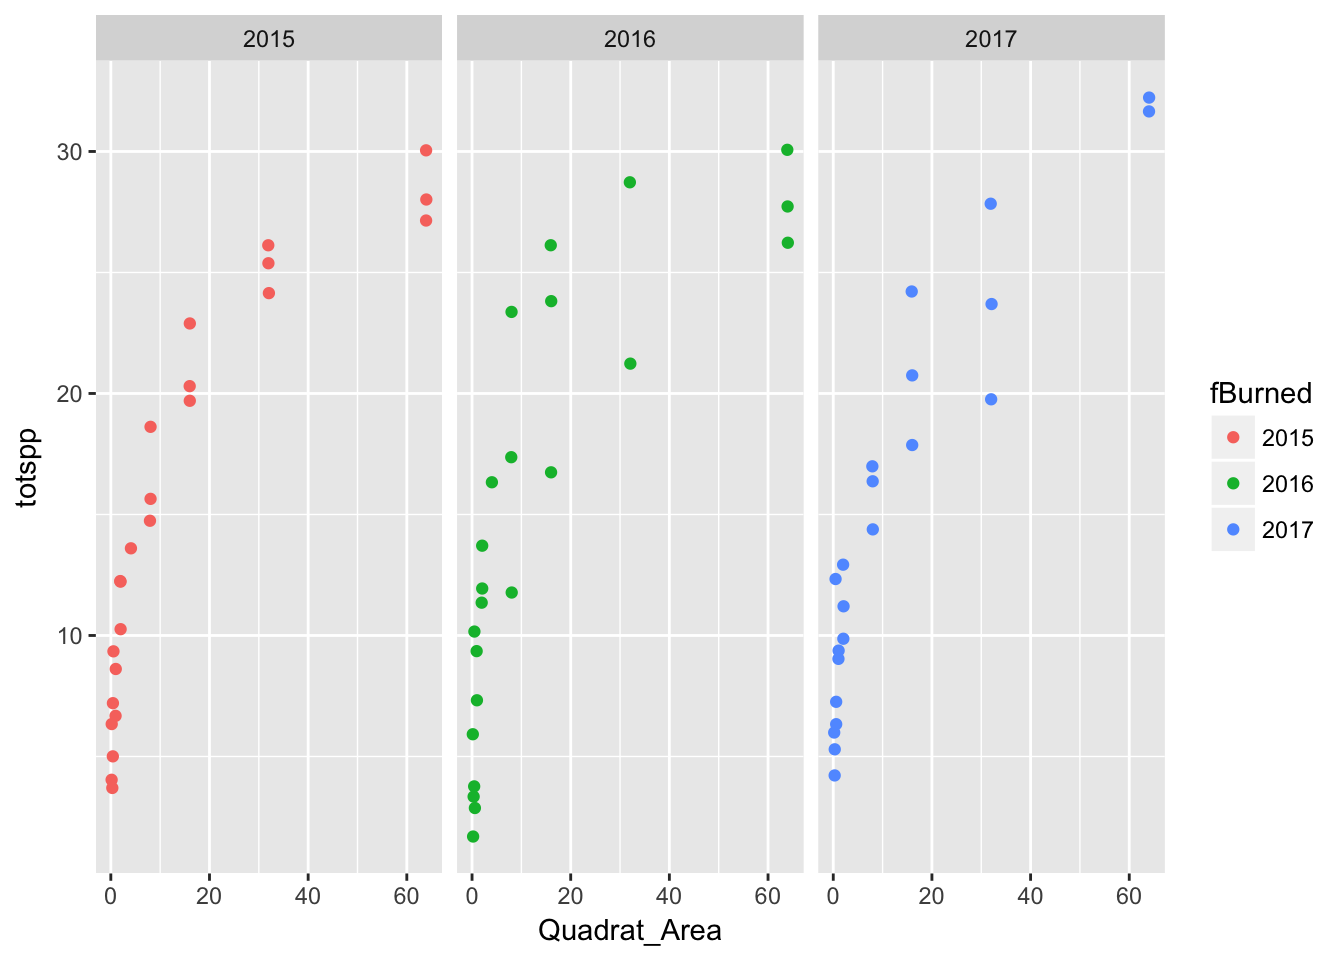
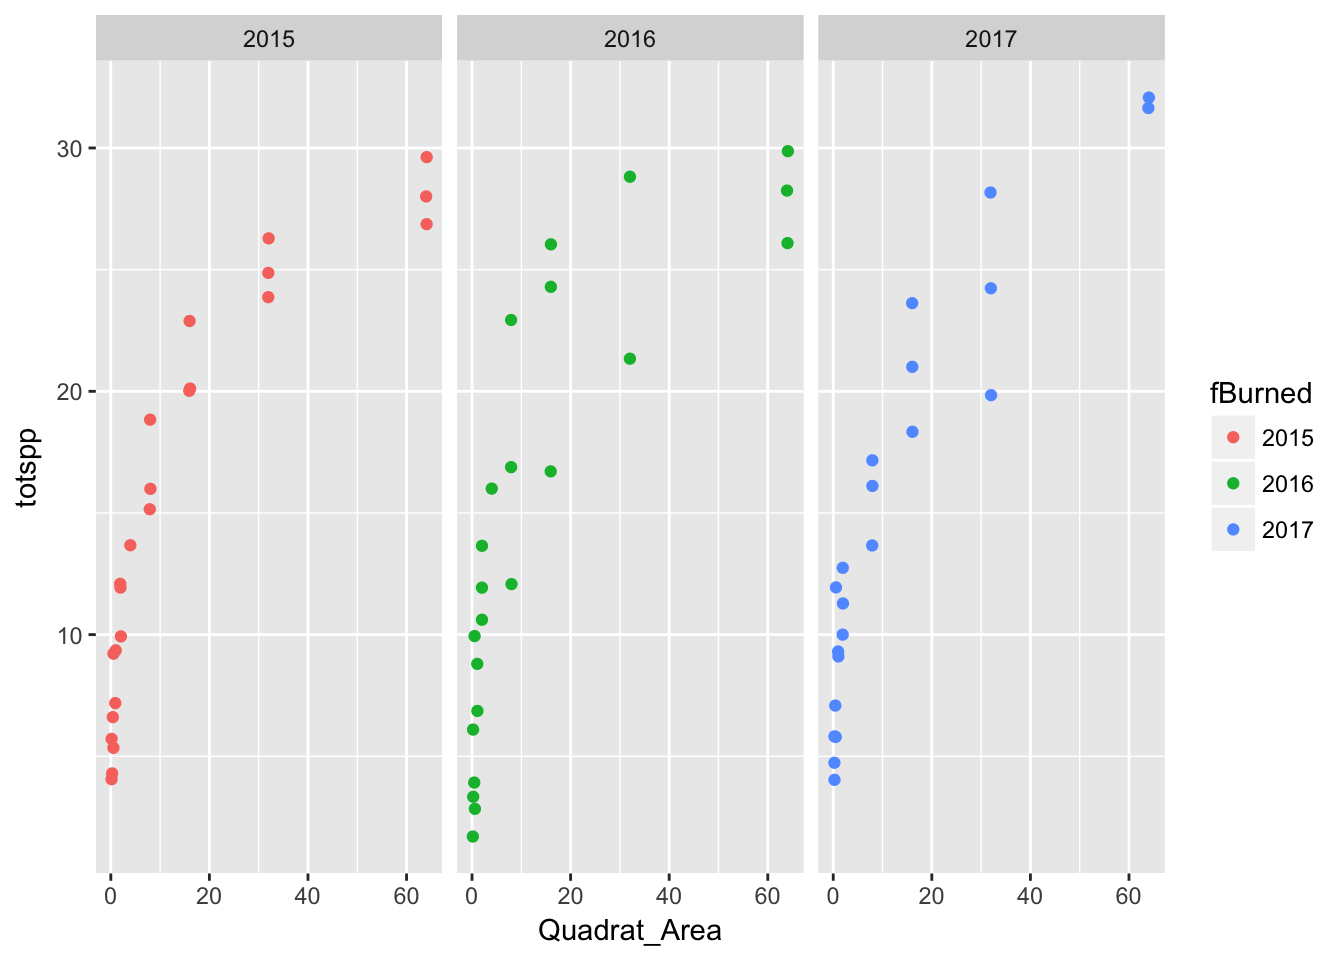
Final version of handout

diff --git a/content/classes/NRES222/nine_mile_ws.html b/content/classes/NRES222/nine_mile_ws.html
@@ -54,14 +54,12 @@ ggplot(data = spparea3,
        mapping = aes(x=Quadrat_Area, y=totspp)) + 
   geom_point(mapping=aes(color=fBurned),
              position = &quot;jitter&quot;)</code></pre>
-<p><img src="/classes/NRES222/nine_mile_ws_files/figure-html/unnamed-chunk-1-1.png" width="672" /></p>
 <p>Adding the argument <code>position = &quot;jitter&quot;</code> to <code>geom_point()</code> just adds a small random number to each data point to avoid points plotting on top of each other. Another way to separate the sections that might be easier to answer Q1 is to make a separate subplot for each unit burned.</p>
 <pre class="r"><code>ggplot(data = spparea3,
        mapping = aes(x=Quadrat_Area, y=totspp)) + 
   geom_point(mapping=aes(color=fBurned),
              position = &quot;jitter&quot;) +
   facet_wrap(~fBurned)</code></pre>
-<p><img src="/classes/NRES222/nine_mile_ws_files/figure-html/unnamed-chunk-2-1.png" width="672" /></p>
 <ol style="list-style-type: decimal">
 <li>Using the graphs with the raw data, rank the 3 fields (burned in 2015, 2016, or 2017) from most homogeneous (all student data sets similar) to most heterogeneous. You are looking at the spread vertically within a single size of quadrat. Why are some fields more variable (speculate)?</li>
 </ol>
@@ -82,8 +80,6 @@ spparea4 &lt;- summarize(spparea4,
        y = &quot;Cumulative species richness (95% CI)&quot;,
        caption = &quot;Figure 1: Cumulative species richness as a function of total quadrat area searched in three fields at 9 Mile Prairie, Nebraska.&quot;) + 
   theme(plot.caption = element_text(hjust=0))</code></pre>
-<pre><code>## Warning: Removed 2 rows containing missing values (geom_errorbar).</code></pre>
-<p><img src="/classes/NRES222/nine_mile_ws_files/figure-html/unnamed-chunk-4-1.png" width="672" /></p>
 <ol start="2" style="list-style-type: decimal">
 <li><p>Compare the average curves for the 3 fields. Does the species area curve appear to follow a smooth relationship? Is the shape of the curve the same for all four fields?</p></li>
 <li><p>Which of the 3 fields had the highest plant diversity?</p></li>
@@ -109,31 +105,34 @@ Log(S) = log c + z log(A)
   theme(plot.caption = element_text(hjust=0)) + 
     scale_x_log10() + scale_y_log10() + # here is the new bit
       geom_smooth(method=&quot;lm&quot;)</code></pre>
-<pre><code>## Warning in self$trans$transform(x): NaNs produced</code></pre>
-<pre><code>## Warning: Transformation introduced infinite values in continuous y-axis</code></pre>
-<pre><code>## Warning: Removed 4 rows containing missing values (geom_errorbar).</code></pre>
-<p><img src="/classes/NRES222/nine_mile_ws_files/figure-html/unnamed-chunk-5-1.png" width="672" /></p>
 <ol start="7" style="list-style-type: decimal">
-<li>Do the log10 – transformed data appear to follow a linear relationship? Is the slope of the line similar for all 3 areas?</li>
+<li><p>Do the log10 – transformed data appear to follow a linear relationship? Is the slope of the line similar for all 3 areas?</p></li>
+<li><p>Which of the 3 areas had the highest plant diversity? Do the differences among the grassland types change between small and large plots? (hint: might be easier if you remove <code>facet_wrap()</code> and get all three lines on same graph.)</p></li>
+<li><p>Pick the grassland type with the highest diversity. Visually estimate (extrapolate) how many species you would expect to find in a 100m2 quadrat using the log10 – transformed data.</p></li>
 </ol>
-<p>Those lines look fine, but what if we want to know what the values of <span class="math inline">\(c\)</span> and <span class="math inline">\(z\)</span> actually are for each field? To do that we need the summary of the linear regressions shown in the graphs.</p>
-<ol start="8" style="list-style-type: decimal">
-<li><p>Which of the 3 areas had the highest plant diversity? Do the differences among the grassland types change between small and large plots?</p></li>
-<li><p>Pick the grassland type with the highest diversity. Visually estimate (extrapolate) how many species you would expect to find in a 100m2 plot log10 – transformed data.</p></li>
-<li><p>What are the equations of your log-transformed relationships for the 3 areas (they can be on the graph) ?</p></li>
-<li><p>Do you think these relationships (the straight lines on the logS vs logA graph) would increase smoothly indefinitely? What would happen if the study area crossed into a different ecosystem type (for example a stand of trees or a corn field)?</p></li>
-<li><p>Use the equations to predict how many species each habitat would have at a scale of 1 m2? (Remember that the log of 1 =0, so your answer is the value of the intercept. BUT, you have to transform it from a log scale back to linear, so take 10 raised to the value of the intercept to give the average number of species in a 1m2 plot).</p></li>
+<hr />
+<p>Those lines look fine, but what if we want to know the values of <span class="math inline">\(c\)</span> and <span class="math inline">\(z\)</span> actually are for each field? To do that we need the summary of the linear regressions shown in the graphs.</p>
+<pre class="r"><code>burned2015 &lt;- filter(spparea3, fBurned == &quot;2015&quot;)
+b2015_lm &lt;- lm(log(totspp) ~ log(Quadrat_Area), data= burned2015)
+summary(b2015_lm)</code></pre>
+<p>The estimate labeled <code>(intercept)</code> is <span class="math inline">\(log(c)\)</span>, and the estimate labeled <code>log(Quadrat_Area)</code> is <span class="math inline">\(z\)</span>. Repeat for the other two groups. Each one needs to be in a new code chunk.</p>
+<ol start="10" style="list-style-type: decimal">
+<li><p>What are the equations of your log-transformed relationships for the 3 areas? Type the equations with the numbers to 2 decimal places only, and one equation to a line.</p></li>
+<li><p>Use the equations to predict how many species each habitat would have at a scale of <span class="math inline">\(1 m^2\)</span>? (Remember that <span class="math inline">\(log(1) =0\)</span>, so your answer is the value of the intercept. BUT, you have to transform it from a log scale back to linear, so take 10 raised to the value of the intercept to give the average number of species in a 1m2 plot).</p></li>
 <li><p>Use the equations to predict how many species each habitat would have at a scale of 100m2 plot?</p></li>
 </ol>
-<p>You can calculate this from your equation. Remember to raise your value of LogS to the power of 10 to transform it to number of species. In Excel you can use the function = power(10, ?) where ? is the number you want to transform.</p>
-<p>Example: let’s say your equation is</p>
-<p>LogS = 1.0332 + 0.1642 (logA)</p>
-<p>If A = 100, then logA = 2.</p>
-<p>Plug that into the equation and you get LogS = 1.362.</p>
-<p>Does that mean you expect to find 1.362 species in a 100 m2 plot? NO, the log of the number of species you predict is 1.362. How do you get rid of the log? Raise 10 to the number you have. 10 raised to the 1.263 is 21.9, which is the predicted number of species in a 100 m2 plot given the equation above. We’ll use logs (base 10) and natural logs quite a bit in this course, so it pays to review them. Mess around with excel until you figure out how to do this example.</p>
-<p>Big discussion questions (each answer should be 200 – 400 words) 14) Why do you think the various fields we studied differ in plant diversity? How does age of the field since planting, the number of species planted and the type of management appear to affect diversity? You will need to look at some other resources to answer this question well; there is no single correct answer.</p>
-<ol start="15" style="list-style-type: decimal">
-<li>Based on the results of our study of diversity in these 3 neighboring grassland areas, what new observations would you propose for future study? We only measured a few of the possible combinations of land-use history (unplowed prairie versus replanted crop land) and management (burning vs haying) for grasslands in the Nine-Mile Prairie area. Assuming you had enough time and money, design a bigger, long-term study of factors controlling plant diversity in prairies.</li>
+<p>You can calculate this using the equations you typed out above.<br />
+<em>Example:</em> let’s say your equation is</p>
+<p><span class="math inline">\(Log(S) = 1.0332 + 0.1642 log(A)\)</span></p>
+<p>If A = 100, then log(A) = 2.</p>
+<p>Plug that into the equation and you get Log(S) = 1.362.</p>
+<p>Does that mean you expect to find 1.362 species in a 100 m2 plot? NO, the log of the number of species you predict is 1.362. How do you get rid of the log? Raise 10 to the number you have. 10 raised to the 1.263 is 21.9, which is the predicted number of species in a 100 m2 plot given the equation above. We’ll use logs (base 10) and natural logs quite a bit in this course, so it pays to review them. You can do these calculations in R</p>
+<pre class="r"><code>logS &lt;- 1.0332 + 0.1642 * log10(100)
+10^logS</code></pre>
+<ol start="11" style="list-style-type: decimal">
+<li><p>Do you think these relationships (the straight lines on the logS vs logA graph) would increase smoothly indefinitely? What would happen if the study area crossed into a different ecosystem type (for example a stand of trees or a corn field)?</p></li>
+<li><p>Recall that most studies find <span class="math inline">\(0.25 &lt;= z &lt;=0.35\)</span>. Is our data consistent with these expectations?</p></li>
+<li><p>Why do you think the various fields we studied differ or do not differ in plant diversity? How does the time since fire affect diversity?</p></li>
 </ol>
 </div>
 <div id="turn-in" class="section level2">
